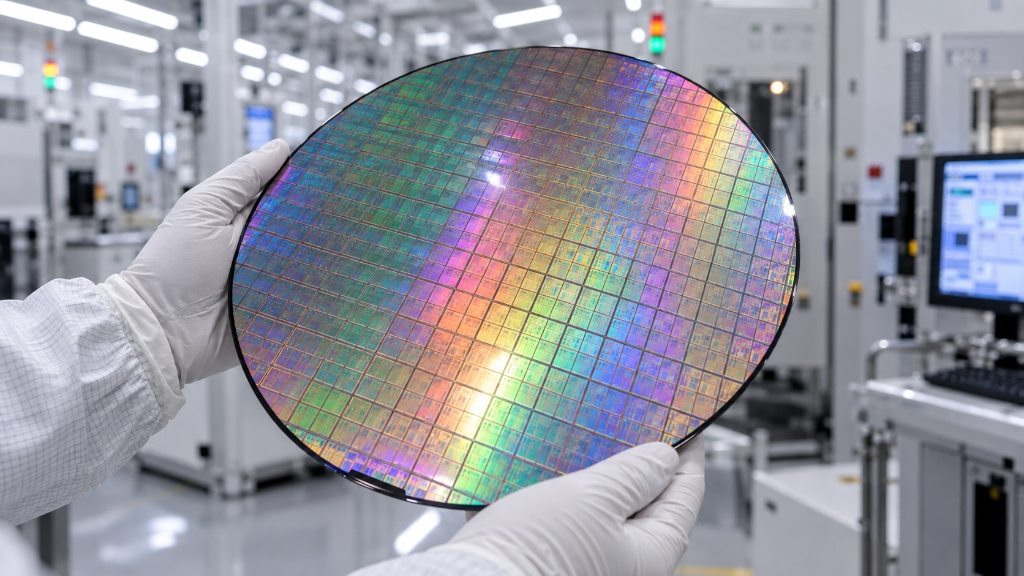
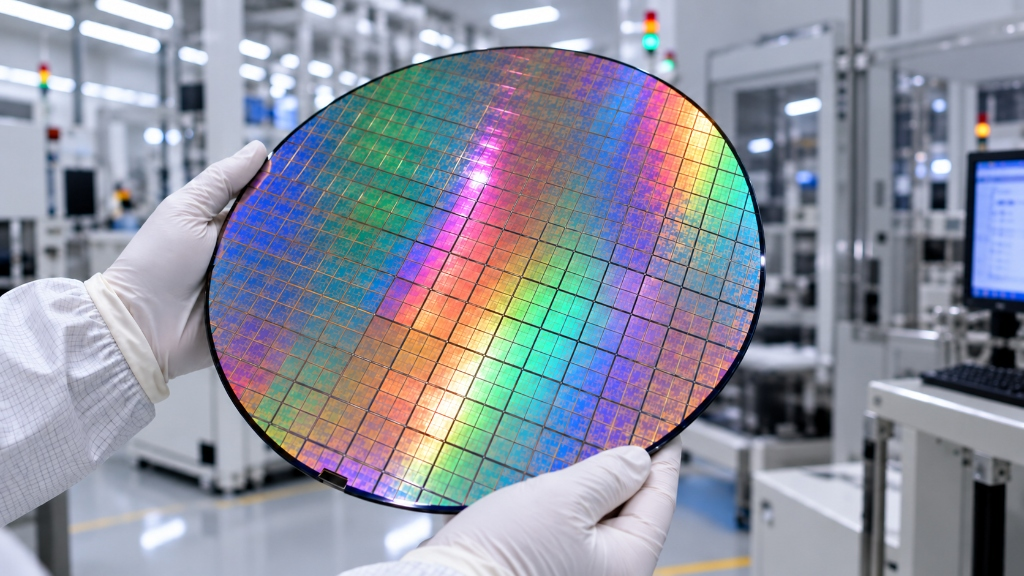
feat(basics): remove reticle overlay box from Stage 1 wafer and update with clean image

diff --git a/src/components/basics/scale/ScaleZoomViewer.tsx b/src/components/basics/scale/ScaleZoomViewer.tsx
@@ -231,28 +231,10 @@ export const ScaleZoomViewer: React.FC<ScaleZoomViewerProps> = ({
             <div className="relative w-full h-full flex items-center justify-center">
               <img
                 src="/images/basics/hero-wafer-cleanroom.jpg"
-                alt="Patterned silicon wafer held in a cleanroom; the highlighted field is an illustrative overlay"
+                alt="Patterned silicon wafer held in a cleanroom"
                 className="w-full h-full max-h-[420px] object-contain rounded-2xl"
               />
-              {/* Live overlay marks an illustrative field location; the photo is not a calibrated wafer map. */}
-              <div className="absolute inset-0 flex items-center justify-center pointer-events-none">
-                <div className="relative w-[56%] aspect-square flex items-center justify-center">
-                  <div
-                    className="absolute border-2 border-[#00A6A6] bg-cyan-400/25 rounded-xs shadow-[0_0_14px_rgba(0,166,166,0.8)] animate-pulse flex items-center justify-center"
-                    style={{
-                      right: '27%',
-                      top: '35%',
-                      width: '8.7%',
-                      height: '11.0%',
-                    }}
-                  >
-                    <span className="text-[9px] font-mono text-cyan-200 bg-slate-900/95 px-1.5 py-0.5 rounded-xs absolute -top-5.5 whitespace-nowrap border border-cyan-500/40">
-                      Exposure field
-                    </span>
-                  </div>
-                </div>
-              </div>
-              <div className="absolute top-3 left-3 bg-slate-900/85 backdrop-blur-md px-3 py-1 rounded-lg text-white font-mono text-xs border border-white/10">
+              <div className="absolute top-3 left-3 bg-slate-900/85 backdrop-blur-md px-3 py-1 rounded-lg text-white font-mono text-xs border border-white/10 z-10">
                 <span className="text-[#00A6A6] font-bold">1/5</span> Patterned Silicon Wafer
               </div>
             </div>
